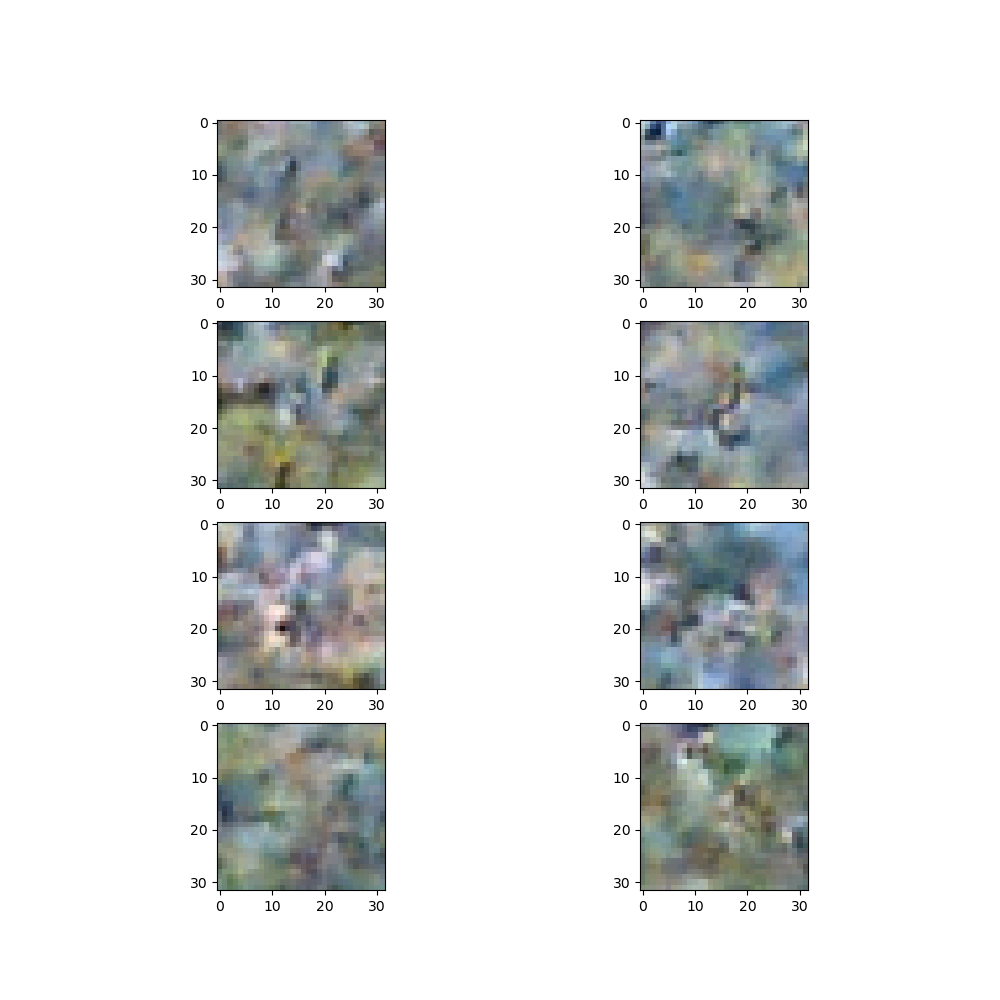
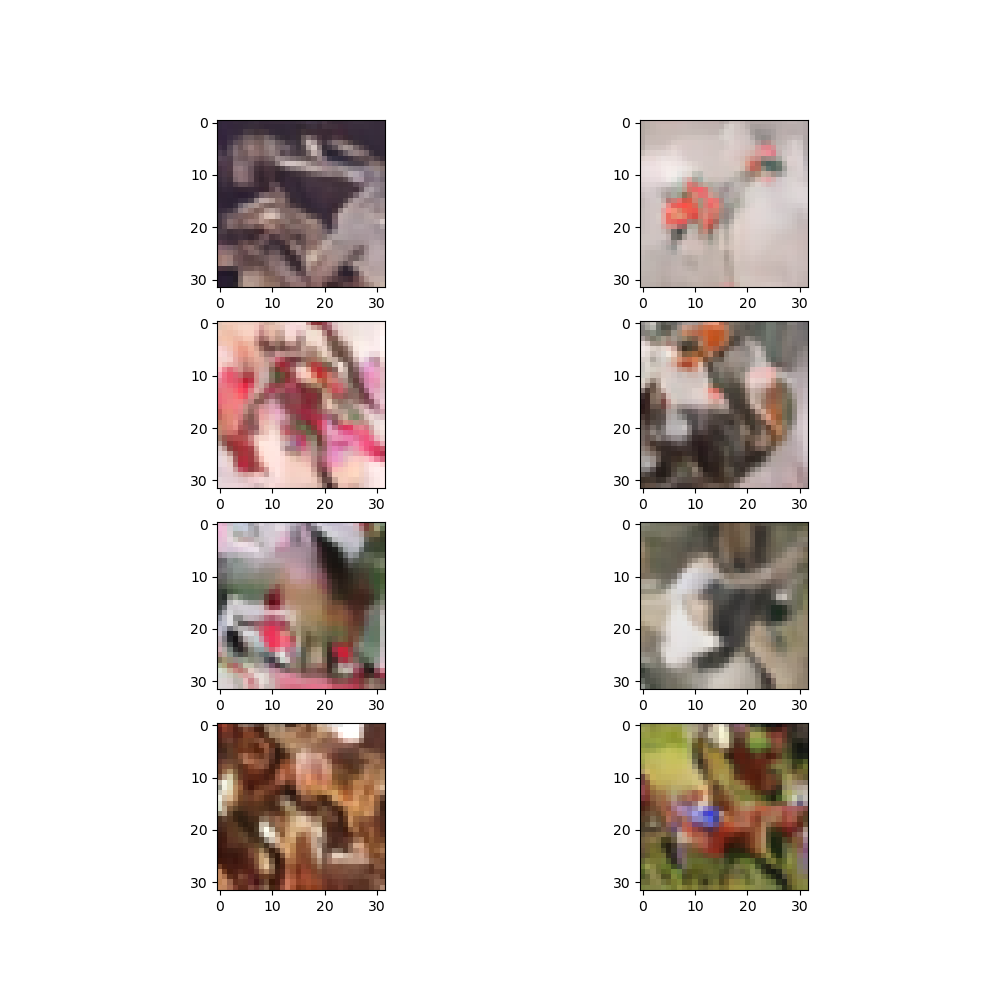
scheduler fixed

Changed region(s): [[0.217, 0.124, 0.403, 0.899], [0.62, 0.124, 0.806, 0.899]]

diff --git a/ex02_main.py b/ex02_main.py
@@ -14,8 +14,17 @@ from ex02_diffusion_v2 import Diffusion, linear_beta_schedule, cosine_beta_sched
 from torchvision.utils import save_image
 
 import argparse
-
-
+def remove_files(directory_path):
+	try:
+        # List all files in the directory
+		for filename in os.listdir(directory_path):
+			file_path = os.path.join(directory_path, filename)
+            # Check if it is a file before removing
+			if os.path.isfile(file_path):
+				os.remove(file_path)
+		print("All files removed successfully.")
+	except Exception as e:
+		print(f"An error occurred: {e}")
 def parse_args():
     parser = argparse.ArgumentParser(description='Train a neural network to diffuse images')
     parser.add_argument('--batch_size', type=int, default=64, help='input batch size for training (default: 64)')
@@ -56,7 +65,7 @@ def visualize_diffusion(images, diffusor, timesteps, store_path, reverse_transfo
 
         # Apply reverse_transform to convert back to human-readable format
         for img in noised_images:
-            visualizations.end(reverse_transform(img.cpu()))
+            visualizations.append(reverse_transform(img.cpu()))
 
     # Save images step-by-step as a grid
     for idx, img in enumerate(visualizations):
@@ -155,11 +164,11 @@ def run(args):
         epoch_start = int(latest_model.split("_")[1].split("_")[0])
         print(f"Loading model from {latest_model}")   
         model.load_state_dict(torch.load(latest_model,weights_only=True))
- 
-        optimizer = AdamW(model.parameters(), lr=args.lr)
+        remove_files(model_folder)
+    optimizer = AdamW(model.parameters(), lr=args.lr)
 
-    my_scheduler = lambda x: sigmoid_beta_schedule(0.0001, 0.2, x)
-    # my_scheduler = lambda x: linear_beta_schedule(0.0001, 0.02, x)
+    # my_scheduler = lambda x: sigmoid_beta_schedule(0.0001, 0.2, x)
+    my_scheduler = lambda x: linear_beta_schedule(0.0001, 0.2, x)
     # my_scheduler = lambda x: cosine_beta_schedule(x)
     diffusor = Diffusion(timesteps, my_scheduler, image_size, device)
     print(f"scheduler: {my_scheduler}")
@@ -186,28 +195,22 @@ def run(args):
 
     # Download and load the test data
     testset = datasets.CIFAR10(r'../Test', download=True, train=False, transform=transform)
-    testloader = DataLoader(testset, batch_size=int(batch_size/2), shuffle=True)        
-    model_save_path = os.path.join(r"./models", args.run_name, f"Epoch_{epoch_start+epoch}_ckpt.pt")
-    print(f"Saving model to {model_save_path}")
+    testloader = DataLoader(testset, batch_size=int(batch_size/2), shuffle=True)
         
-    torch.save(model.state_dict(), model_save_path )
         # Visualization
     save_path = r"./results"  # TODO: Adapt to your needs   
     for epoch in range(epochs):
         train(model, trainloader, optimizer, diffusor, epoch, device, args)
-        test_vis(model, valloader, diffusor, device, reverse_transform,  args, epoch)
-	    
-        
-	    model_save_path = os.path.join(r"./models", args.run_name, f"Epoch_{epoch_start+epoch}_ckpt.pt")
+        test_vis(model, valloader, diffusor, device, reverse_transform,  args, epoch_start+epoch)
+        model_save_path = os.path.join(r"./models", args.run_name, f"Epoch_{epoch_start+epoch}_ckpt.pt")
+        remove_files(model_folder)
         print(f"Saving model to {model_save_path}")
-        removefolder(models_save_path)
-        torch.save(model.state_dict(), model_save_path
+        torch.save(model.state_dict(), model_save_path)
     
     for images, _ in trainloader:
         images = images.to(device)
         visualize_diffusion(images, diffusor, timesteps=timesteps, store_path=save_path,reverse_transform=reverse_transform)
         break
-
 
 if __name__ == '__main__':
     args = parse_args()

diff --git a/ex02_diffusion_v2.py b/ex02_diffusion_v2.py
@@ -28,19 +28,29 @@ def linear_beta_schedule(beta_start, beta_end, timesteps):
     return torch.linspace(beta_start, beta_end, timesteps)
 
 
-# TODO: Transform into task for students
-def cosine_beta_schedule(timesteps, s=0.008):
-    """
-    cosine schedule as proposed in https://arxiv.org/abs/2102.09672
-    also read:
-    https://www.analyticsvidhya.com/blog/2024/07/noise-schedules-in-stable-diffusion/
-    """
-    # TODO (2.3): Implement cosine beta/variance schedule as discussed in the paper mentioned above
-    steps = torch.linspace(0, timesteps, timesteps + 1, dtype=torch.float32)[:-1]  # Exclude endpoint
-    alphas = torch.cos(((steps / timesteps) + s) / (1 + s) * torch.pi / 2) ** 2    
+# # TODO: Transform into task for students
+# def cosine_beta_schedule(timesteps, s=0.008):
+#     """
+#     cosine schedule as proposed in https://arxiv.org/abs/2102.09672
+#     also read:
+#     https://www.analyticsvidhya.com/blog/2024/07/noise-schedules-in-stable-diffusion/
+#     """
+#     # TODO (2.3): Implement cosine beta/variance schedule as discussed in the paper mentioned above
+#     steps = torch.linspace(0, timesteps, timesteps+1 , dtype=torch.float32)  # Exclude endpoint
+#     alphas = torch.cos((((steps / timesteps) + s) / (1 + s)) * torch.pi / 2) ** 2    
+#     alphas = alphas / alphas[0]
+#     betas = 1 - (alphas[1:] / alphas[:-1])
+#     betas = torch.clamp(betas, max=0.999)
+#     return betas
+def cosine_beta_schedule(n_timesteps, s=0.008):
+    timesteps = ( torch.arange(n_timesteps + 1, dtype=torch.float64) / n_timesteps + s
+    )
+    alphas = timesteps / (1 + s) * torch.pi / 2
+    alphas = torch.cos(alphas).pow(2)
     alphas = alphas / alphas[0]
-    betas = 1 - (alphas[1:] / alphas[:-1])
-    betas = torch.clamp(betas, min=0.0001, max=0.999)
+    betas = 1 - alphas[1:] / alphas[:-1]
+    betas = betas.clamp(max=0.2)
+
     return betas
 
     
